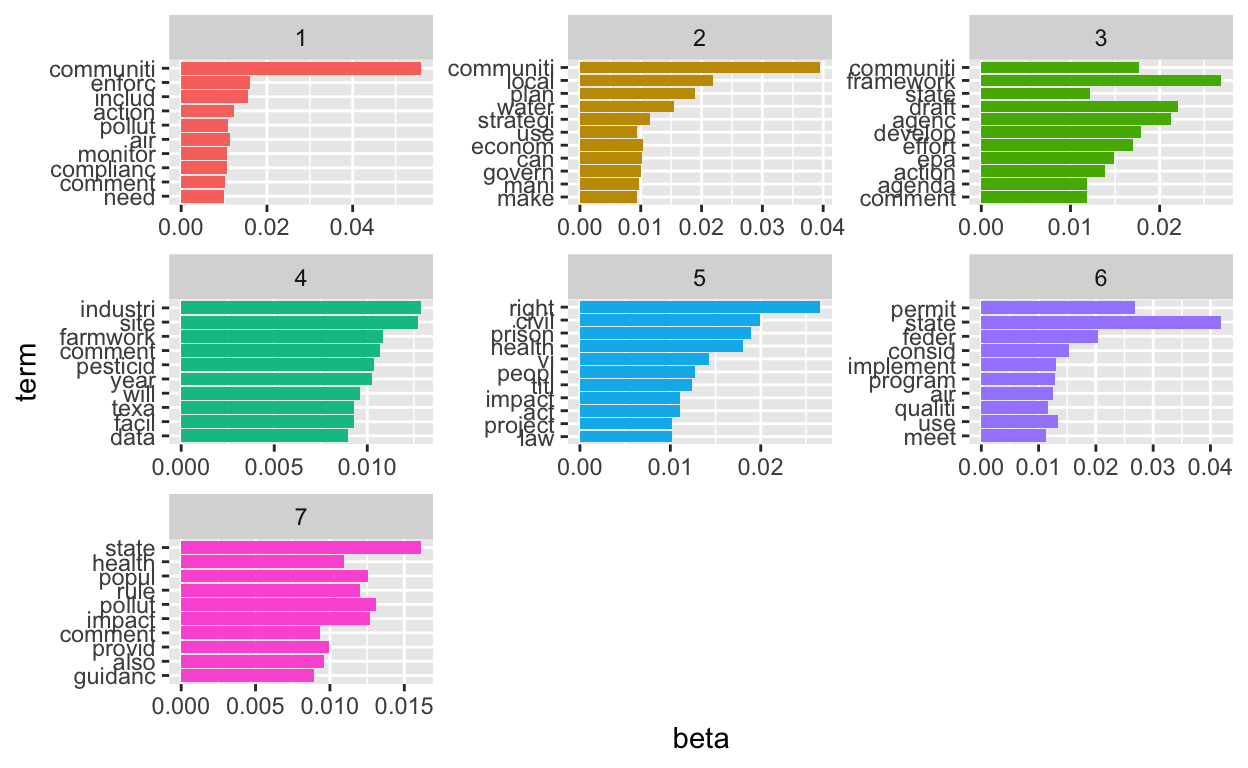
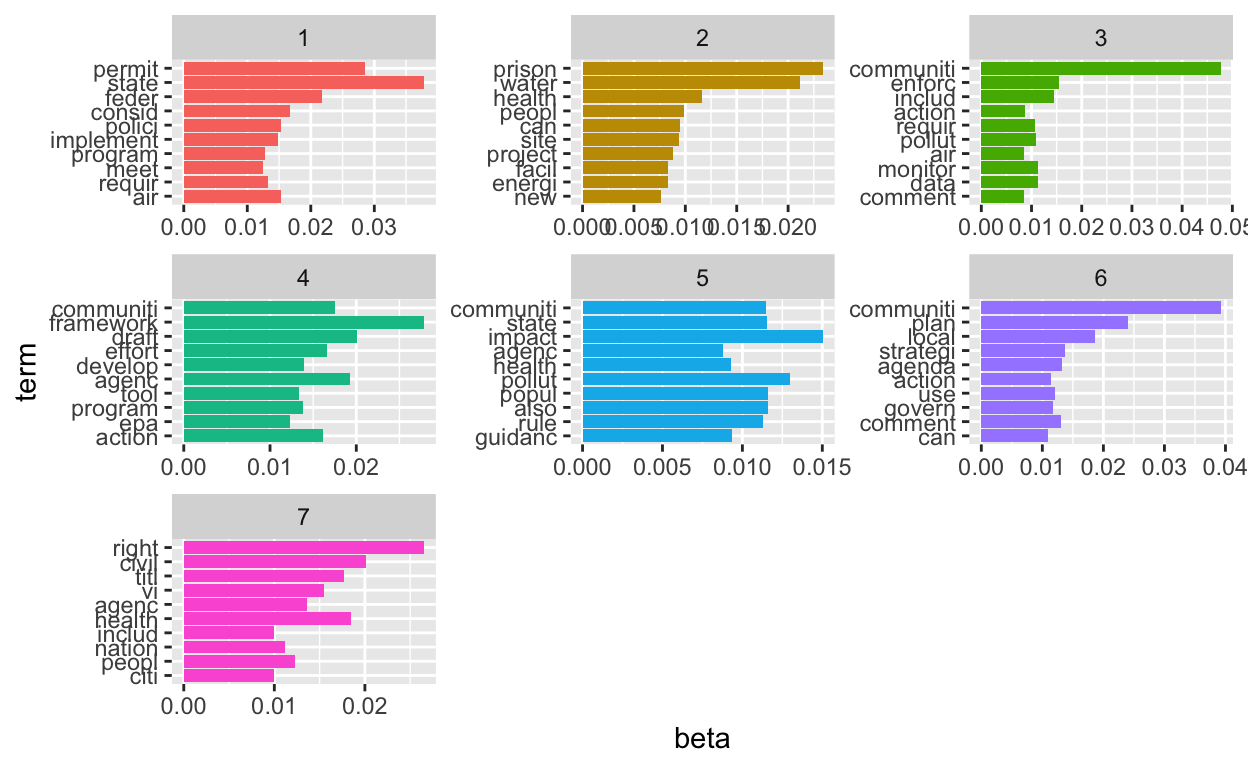
Topic 6 commit

diff --git a/docs/topic_6.html b/docs/topic_6.html
@@ -2486,7 +2486,7 @@ Topics
 <a href="topic_3.html">Topic 3: Sentiment Analysis I</a>
 <a href="topic_4.html">Topic 4: Sentiment Analysis II</a>
 <a href="topic_5.html">Topic 5: Word Relationships</a>
-<a href="topic_6.html">Topic_6: Topic Analysis</a>
+<a href="topic_6.html">Topic 6: Topic Analysis</a>
 </div>
 </div>
 <a href="resources.html">Resources</a>
@@ -2694,28 +2694,28 @@ Gibbs sampling completed!</code></pre>
 <pre class="sourceCode r"><code class="sourceCode r"><span class='fu'><a href='https://rdrr.io/r/stats/terms.html'>terms</a></span><span class='op'>(</span><span class='va'>topicModel_k9</span>, <span class='fl'>10</span><span class='op'>)</span>
 </code></pre>
 </div>
-<pre><code>      Topic 1     Topic 2   Topic 3    Topic 4     Topic 5    
- [1,] &quot;communiti&quot; &quot;feder&quot;   &quot;state&quot;    &quot;state&quot;     &quot;communiti&quot;
- [2,] &quot;plan&quot;      &quot;agenc&quot;   &quot;rule&quot;     &quot;permit&quot;    &quot;enforc&quot;   
- [3,] &quot;local&quot;     &quot;program&quot; &quot;impact&quot;   &quot;consid&quot;    &quot;includ&quot;   
- [4,] &quot;use&quot;       &quot;titl&quot;    &quot;popul&quot;    &quot;air&quot;       &quot;action&quot;   
- [5,] &quot;make&quot;      &quot;issu&quot;    &quot;health&quot;   &quot;implement&quot; &quot;monitor&quot;  
- [6,] &quot;strategi&quot;  &quot;state&quot;   &quot;ejscreen&quot; &quot;meet&quot;      &quot;data&quot;     
- [7,] &quot;govern&quot;    &quot;vi&quot;      &quot;also&quot;     &quot;feder&quot;     &quot;permit&quot;   
- [8,] &quot;comment&quot;   &quot;act&quot;     &quot;avail&quot;    &quot;grant&quot;     &quot;requir&quot;   
- [9,] &quot;agenda&quot;    &quot;right&quot;   &quot;asthma&quot;   &quot;train&quot;     &quot;region&quot;   
-[10,] &quot;particip&quot;  &quot;civil&quot;   &quot;pollut&quot;   &quot;comment&quot;   &quot;report&quot;   
-      Topic 6  Topic 7    Topic 8     Topic 9    
- [1,] &quot;health&quot; &quot;prison&quot;   &quot;framework&quot; &quot;communiti&quot;
- [2,] &quot;citi&quot;   &quot;center&quot;   &quot;effort&quot;    &quot;pollut&quot;   
- [3,] &quot;peopl&quot;  &quot;facil&quot;    &quot;communiti&quot; &quot;air&quot;      
- [4,] &quot;right&quot;  &quot;site&quot;     &quot;draft&quot;     &quot;comment&quot;  
- [5,] &quot;can&quot;    &quot;project&quot;  &quot;action&quot;    &quot;clean&quot;    
- [6,] &quot;park&quot;   &quot;sourc&quot;    &quot;develop&quot;   &quot;protect&quot;  
- [7,] &quot;includ&quot; &quot;industri&quot; &quot;agenc&quot;     &quot;need&quot;     
- [8,] &quot;climat&quot; &quot;energi&quot;   &quot;epa&quot;       &quot;plan&quot;     
- [9,] &quot;nation&quot; &quot;work&quot;     &quot;will&quot;      &quot;health&quot;   
-[10,] &quot;access&quot; &quot;counti&quot;   &quot;impact&quot;    &quot;address&quot;  </code></pre>
+<pre><code>      Topic 1     Topic 2     Topic 3     Topic 4    Topic 5  
+ [1,] &quot;peopl&quot;     &quot;communiti&quot; &quot;communiti&quot; &quot;prison&quot;   &quot;right&quot;  
+ [2,] &quot;health&quot;    &quot;enforc&quot;    &quot;health&quot;    &quot;site&quot;     &quot;agenc&quot;  
+ [3,] &quot;citi&quot;      &quot;comment&quot;   &quot;impact&quot;    &quot;juli&quot;     &quot;civil&quot;  
+ [4,] &quot;park&quot;      &quot;air&quot;       &quot;rule&quot;      &quot;popul&quot;    &quot;titl&quot;   
+ [5,] &quot;green&quot;     &quot;monitor&quot;   &quot;state&quot;     &quot;facil&quot;    &quot;vi&quot;     
+ [6,] &quot;project&quot;   &quot;complianc&quot; &quot;popul&quot;     &quot;industri&quot; &quot;address&quot;
+ [7,] &quot;communiti&quot; &quot;provid&quot;    &quot;also&quot;      &quot;center&quot;   &quot;includ&quot; 
+ [8,] &quot;fund&quot;      &quot;action&quot;    &quot;air&quot;       &quot;sourc&quot;    &quot;plan&quot;   
+ [9,] &quot;order&quot;     &quot;includ&quot;    &quot;pollut&quot;    &quot;project&quot;  &quot;issu&quot;   
+[10,] &quot;poor&quot;      &quot;requir&quot;    &quot;ejscreen&quot;  &quot;water&quot;    &quot;nation&quot; 
+      Topic 6      Topic 7    Topic 8     Topic 9    
+ [1,] &quot;communiti&quot;  &quot;state&quot;    &quot;state&quot;     &quot;communiti&quot;
+ [2,] &quot;pollut&quot;     &quot;permit&quot;   &quot;program&quot;   &quot;framework&quot;
+ [3,] &quot;work&quot;       &quot;consid&quot;   &quot;draft&quot;     &quot;action&quot;   
+ [4,] &quot;comment&quot;    &quot;feder&quot;    &quot;epa&quot;       &quot;agenda&quot;   
+ [5,] &quot;farmwork&quot;   &quot;meet&quot;     &quot;framework&quot; &quot;develop&quot;  
+ [6,] &quot;pesticid&quot;   &quot;air&quot;      &quot;agenc&quot;     &quot;local&quot;    
+ [7,] &quot;use&quot;        &quot;grant&quot;    &quot;regul&quot;     &quot;effort&quot;   
+ [8,] &quot;overburden&quot; &quot;like&quot;     &quot;will&quot;      &quot;comment&quot;  
+ [9,] &quot;polici&quot;     &quot;opportun&quot; &quot;may&quot;       &quot;plan&quot;     
+[10,] &quot;protect&quot;    &quot;train&quot;    &quot;issu&quot;      &quot;tool&quot;     </code></pre>
 </div>
 <p>Some of those topics seem related to the cross-cutting and additional
 topics identified in the EPA’s response to the public comments:</p>
@@ -2789,28 +2789,28 @@ Gibbs sampling completed!</code></pre>
 <span class='fu'><a href='https://rdrr.io/r/stats/terms.html'>terms</a></span><span class='op'>(</span><span class='va'>topicModel_k7</span>, <span class='fl'>10</span><span class='op'>)</span>
 </code></pre>
 </div>
-<pre><code>      Topic 1     Topic 2     Topic 3     Topic 4    Topic 5 
- [1,] &quot;communiti&quot; &quot;communiti&quot; &quot;framework&quot; &quot;industri&quot; &quot;right&quot; 
- [2,] &quot;enforc&quot;    &quot;local&quot;     &quot;draft&quot;     &quot;site&quot;     &quot;civil&quot; 
- [3,] &quot;includ&quot;    &quot;plan&quot;      &quot;agenc&quot;     &quot;farmwork&quot; &quot;prison&quot;
- [4,] &quot;action&quot;    &quot;water&quot;     &quot;develop&quot;   &quot;comment&quot;  &quot;health&quot;
- [5,] &quot;air&quot;       &quot;strategi&quot;  &quot;communiti&quot; &quot;pesticid&quot; &quot;vi&quot;    
- [6,] &quot;pollut&quot;    &quot;econom&quot;    &quot;effort&quot;    &quot;year&quot;     &quot;peopl&quot; 
- [7,] &quot;complianc&quot; &quot;can&quot;       &quot;epa&quot;       &quot;will&quot;     &quot;titl&quot;  
- [8,] &quot;monitor&quot;   &quot;govern&quot;    &quot;action&quot;    &quot;texa&quot;     &quot;impact&quot;
- [9,] &quot;comment&quot;   &quot;mani&quot;      &quot;state&quot;     &quot;facil&quot;    &quot;act&quot;   
-[10,] &quot;need&quot;      &quot;use&quot;       &quot;agenda&quot;    &quot;data&quot;     &quot;law&quot;   
-      Topic 6     Topic 7  
- [1,] &quot;state&quot;     &quot;state&quot;  
- [2,] &quot;permit&quot;    &quot;pollut&quot; 
- [3,] &quot;feder&quot;     &quot;impact&quot; 
- [4,] &quot;consid&quot;    &quot;popul&quot;  
- [5,] &quot;use&quot;       &quot;rule&quot;   
- [6,] &quot;implement&quot; &quot;health&quot; 
- [7,] &quot;program&quot;   &quot;provid&quot; 
- [8,] &quot;air&quot;       &quot;also&quot;   
- [9,] &quot;qualiti&quot;   &quot;comment&quot;
-[10,] &quot;meet&quot;      &quot;guidanc&quot;</code></pre>
+<pre><code>      Topic 1     Topic 2   Topic 3     Topic 4     Topic 5    
+ [1,] &quot;state&quot;     &quot;prison&quot;  &quot;communiti&quot; &quot;framework&quot; &quot;impact&quot;   
+ [2,] &quot;permit&quot;    &quot;water&quot;   &quot;enforc&quot;    &quot;draft&quot;     &quot;pollut&quot;   
+ [3,] &quot;feder&quot;     &quot;health&quot;  &quot;includ&quot;    &quot;agenc&quot;     &quot;also&quot;     
+ [4,] &quot;consid&quot;    &quot;peopl&quot;   &quot;data&quot;      &quot;communiti&quot; &quot;popul&quot;    
+ [5,] &quot;polici&quot;    &quot;can&quot;     &quot;monitor&quot;   &quot;effort&quot;    &quot;state&quot;    
+ [6,] &quot;air&quot;       &quot;site&quot;    &quot;pollut&quot;    &quot;action&quot;    &quot;communiti&quot;
+ [7,] &quot;implement&quot; &quot;project&quot; &quot;requir&quot;    &quot;develop&quot;   &quot;rule&quot;     
+ [8,] &quot;requir&quot;    &quot;facil&quot;   &quot;action&quot;    &quot;program&quot;   &quot;guidanc&quot;  
+ [9,] &quot;program&quot;   &quot;energi&quot;  &quot;comment&quot;   &quot;tool&quot;      &quot;health&quot;   
+[10,] &quot;meet&quot;      &quot;new&quot;     &quot;air&quot;       &quot;epa&quot;       &quot;agenc&quot;    
+      Topic 6     Topic 7 
+ [1,] &quot;communiti&quot; &quot;right&quot; 
+ [2,] &quot;plan&quot;      &quot;civil&quot; 
+ [3,] &quot;local&quot;     &quot;health&quot;
+ [4,] &quot;strategi&quot;  &quot;titl&quot;  
+ [5,] &quot;agenda&quot;    &quot;vi&quot;    
+ [6,] &quot;comment&quot;   &quot;agenc&quot; 
+ [7,] &quot;use&quot;       &quot;peopl&quot; 
+ [8,] &quot;govern&quot;    &quot;nation&quot;
+ [9,] &quot;action&quot;    &quot;includ&quot;
+[10,] &quot;can&quot;       &quot;citi&quot;  </code></pre>
 <div class="sourceCode">
 <pre class="sourceCode r"><code class="sourceCode r"><span class='va'>theta</span> <span class='op'>&lt;-</span> <span class='va'>tmResult</span><span class='op'>$</span><span class='va'>topics</span>
 <span class='va'>beta</span> <span class='op'>&lt;-</span> <span class='va'>tmResult</span><span class='op'>$</span><span class='va'>terms</span>
@@ -2835,20 +2835,20 @@ down the rabbit hole here</a></p>
 <span class='va'>top_terms</span>
 </code></pre>
 </div>
-<pre><code># A tibble: 73 × 3
+<pre><code># A tibble: 70 × 3
    topic term        beta
    &lt;int&gt; &lt;chr&gt;      &lt;dbl&gt;
- 1     1 communiti 0.0560
- 2     1 enforc    0.0161
- 3     1 includ    0.0155
- 4     1 action    0.0122
- 5     1 air       0.0113
- 6     1 pollut    0.0108
- 7     1 complianc 0.0106
- 8     1 monitor   0.0106
- 9     1 comment   0.0103
-10     1 need      0.0101
-# … with 63 more rows</code></pre>
+ 1     1 state     0.0378
+ 2     1 permit    0.0285
+ 3     1 feder     0.0217
+ 4     1 consid    0.0168
+ 5     1 polici    0.0154
+ 6     1 air       0.0152
+ 7     1 implement 0.0148
+ 8     1 requir    0.0133
+ 9     1 program   0.0127
+10     1 meet      0.0125
+# … with 60 more rows</code></pre>
 </div>
 <div class="layout-chunk" data-layout="l-body">
 <div class="sourceCode">
@@ -2892,6 +2892,7 @@ each topic over each document</p>
 </div>
 <p><img src="topic_6_files/figure-html5/topic_dists-1.png" width="624" /></p>
 </div>
+<p>Here’s a neat JSON-based model visualizer</p>
 <div class="layout-chunk" data-layout="l-body">
 <div class="sourceCode">
 <pre class="sourceCode r"><code class="sourceCode r"><span class='kw'><a href='https://rdrr.io/r/base/library.html'>library</a></span><span class='op'>(</span><span class='va'><a href='https://github.com/cpsievert/LDAvis'>LDAvis</a></span><span class='op'>)</span>
@@ -2910,6 +2911,25 @@ each topic over each document</p>
 </code></pre>
 </div>
 </div>
+<h3 id="assignment">Assignment:</h3>
+<p>Either:</p>
+<ol type="A">
+<li>continue on with the analysis we started:</li>
+</ol>
+<p>Run three more models and select the overall best value for k (the
+number of topics) - include some justification for your selection:
+theory, FindTopicsNumber() optimization metrics, interpretability,
+LDAvis</p>
+<p>OR</p>
+<ol start="2" type="A">
+<li>use the data you plan to use for your final project:</li>
+</ol>
+<p>Prepare the data so that it can be analyzed in the topicmodels
+package</p>
+<p>Run three more models and select the overall best value for k (the
+number of topics) - include some justification for your selection:
+theory, FindTopicsNumber() optimization metrics, interpretability,
+LDAvis</p>
 <div class="sourceCode" id="cb11"><pre
 class="sourceCode r distill-force-highlighting-css"><code class="sourceCode r"></code></pre></div>
 <!--radix_placeholder_article_footer-->
